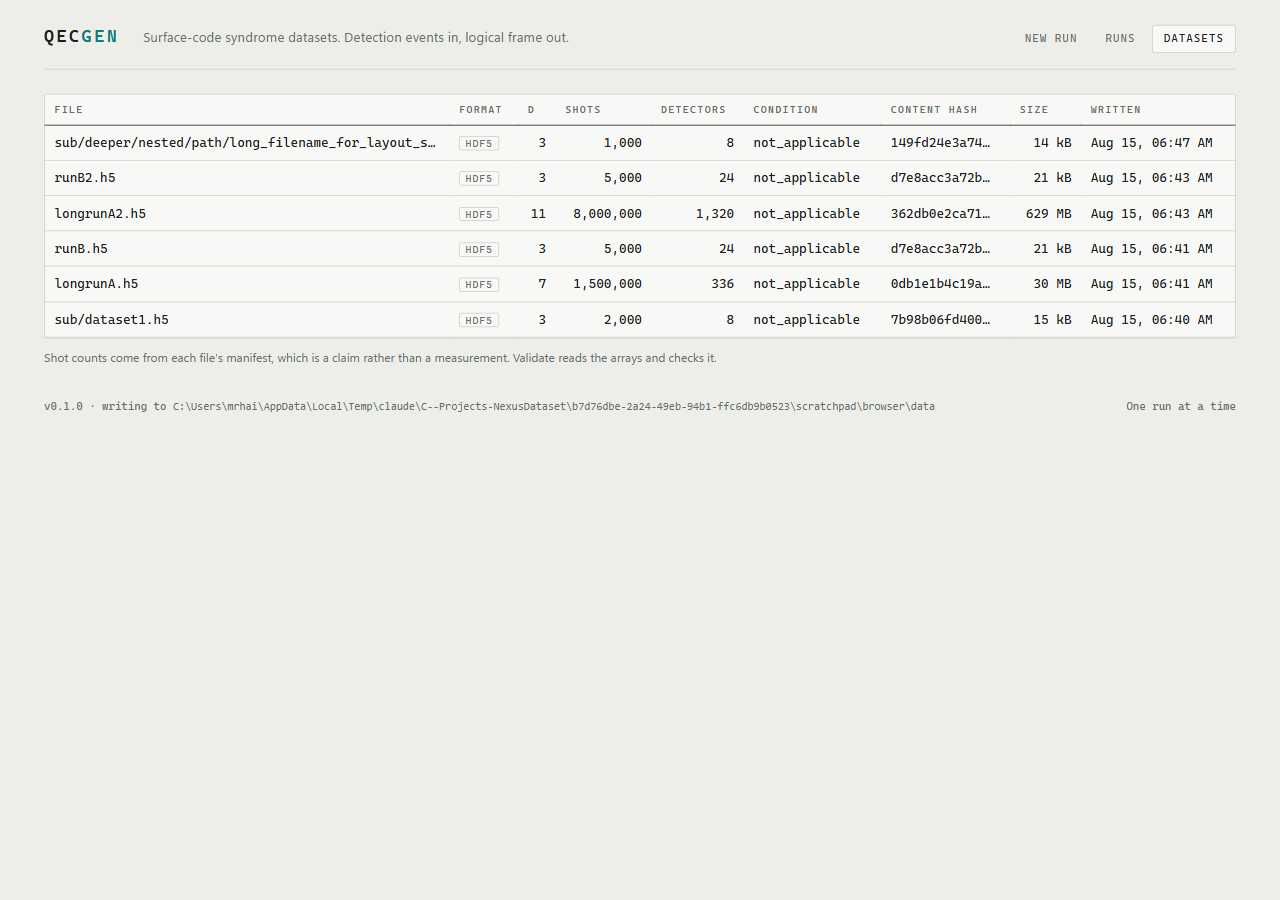
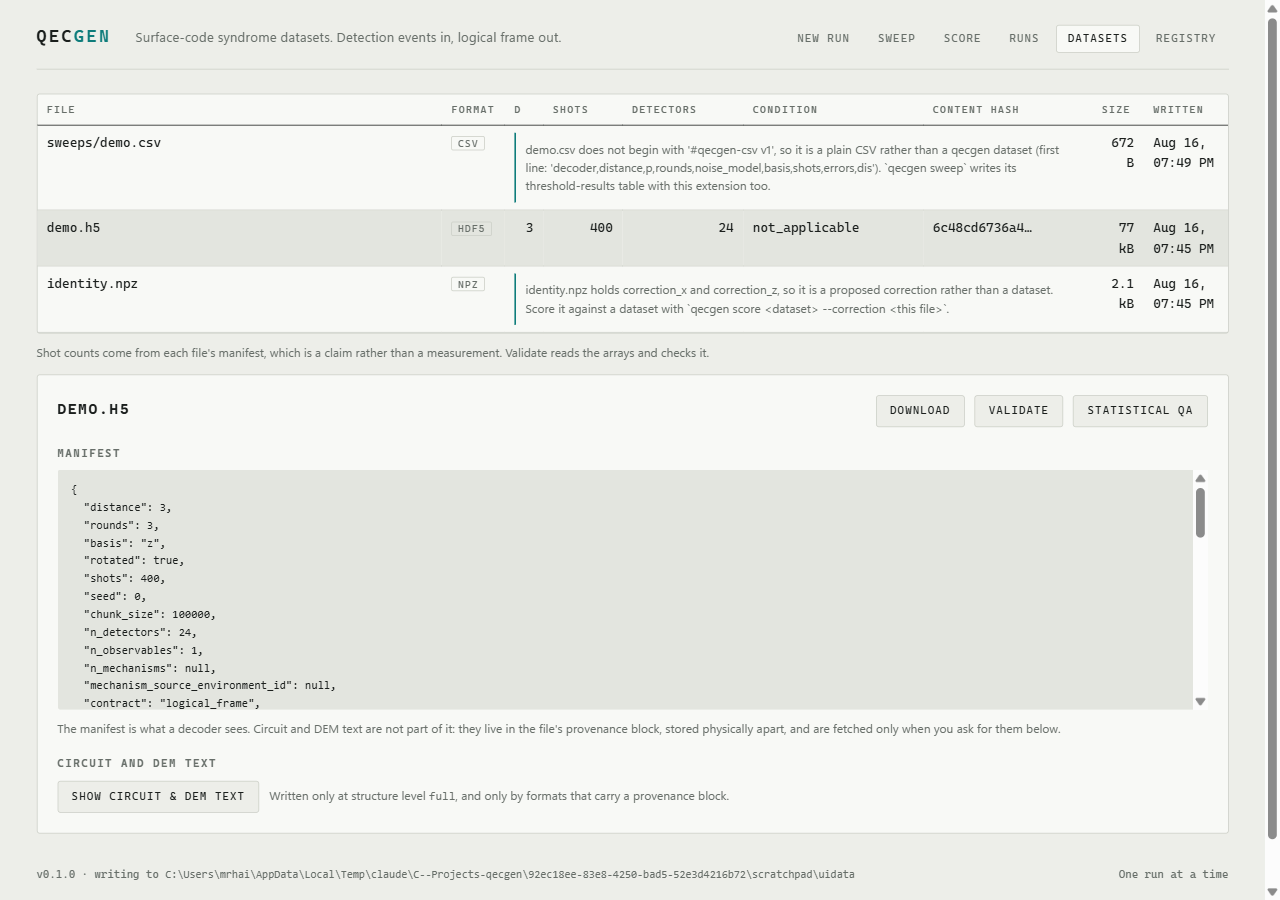
Sweep the docs, and re-capture the figures the nav changed
README, GUIDE, DATA_CONTRACT, CLAUDE.md and AGENTS.md all stated the UI's old
scope in their own words, so all five said it and all five had to stop. The
"sweep, score and inspect stay terminal-only" bullet in Out of scope is gone;
what replaces it is the one thing that genuinely is out of scope, which is
uploading files through the browser, with the reason (no authentication, so the
server reads what is already there rather than accepting arbitrary bytes).

DATA_CONTRACT gains the three rules that make a provenance endpoint safe, as
contract rather than presentation preference: never part of a manifest
response, never fetched incidentally, and warned about rather than refused --
because refusing in one front end while the other prints it is an
inconsistency about the same bytes, and what the split protects is a decoder's
input, not the file's secrecy.

GUIDE §14 gains five traps, all of them things that produce a well-formed wrong
result rather than an error: a file with a dataset extension that is not one
(now true of all five formats, not just .csv); --emit-mechanisms under
frozen_prior being refused on a topology digest rather than a count; a sweep's
--out naming the CSV so a .png there would have the plot overwrite the data;
and provenance being shown on request in both front ends.

CLAUDE.md and AGENTS.md get the new architecture line for run.py, the corrected
extension-point text now that both dispatch tables live beside EXPORTERS, and a
[…]

diff --git a/qecgen/ui/__init__.py b/qecgen/ui/__init__.py
@@ -1,8 +1,8 @@
-"""Local web UI for the dataset-producing commands.
+"""Local web UI. Everything the CLI does, in a browser.
 
 Import cost is deliberate here. ``qecgen.ui.protocol`` and ``qecgen.ui.worker`` depend on
-nothing beyond the standard library and :mod:`qecgen.run`, so a generation worker starts
-in about half a second and runs on an install without the ``ui`` extra.
+nothing beyond the standard library and :mod:`qecgen.run`, so a worker starts in about
+half a second and runs on an install without the ``ui`` extra.
 ``qecgen.ui.app`` is the only module that pulls in FastAPI, and nothing imports it at
 package level.
 """

diff --git a/tests/test_cli.py b/tests/test_cli.py
@@ -346,9 +346,7 @@ class TestReverseParity:
         assert dataset.mechanisms is not None
         assert dataset.meta.contract == "dem_mechanism"
 
-    def test_drift_refuses_mechanisms_when_the_frozen_dems_disagree(
-        self, tmp_path: Path
-    ) -> None:
+    def test_drift_refuses_mechanisms_when_the_frozen_dems_disagree(self, tmp_path: Path) -> None:
         """The domain guard, reachable from the CLI for the first time. Labels are indexed
         against the test DEM while the shipped structure describes the training one, so
         column k would denote different mechanisms in each."""

diff --git a/qecgen/cli.py b/qecgen/cli.py
@@ -605,7 +605,7 @@ def inspect(
 
 @app.command(
     help=(
-        "Serve the web UI for generate, multi-env and drift on localhost. "
+        "Serve the web UI on localhost: every command this tool has, in a browser. "
         "Loopback only, and not configurable: the API writes files and spawns "
         "processes for anyone who can reach it, with no authentication, so the only "
         "safe audience is the person at this machine. A non-loopback --host is "

diff --git a/GUIDE.md b/GUIDE.md
@@ -140,7 +140,7 @@ including values you didn't type. A terminal log is therefore a complete record 
 | `inspect` | Print a file's manifest without loading the shots |
 | `formats` | List the registered export formats |
 | `score` | Score a proposed physical correction by its logical effect |
-| `ui` | Serve `generate`/`multi-env`/`drift` as a local web page — see §13 |
+| `ui` | Serve every one of the above as a local web page — see §13 |
 
 ---
 
@@ -634,7 +634,7 @@ always PyMatching.
 
 ---
 
-## 13. `ui` — the same three commands in a browser
+## 13. `ui` — all of it in a browser
 
 ```bash
 pip install -e ".[ui]"
@@ -642,11 +642,27 @@ qecgen ui                      # http://127.0.0.1:8765; opens your browser once 
 qecgen ui --data-root runs     # confine reads and writes to a different directory
 ```
 
-`ui` serves a local web page for `generate`, `multi-env` and `drift` — the three
-dataset-producing commands — with a cost preview before you commit, a live progress bar,
-a run history that survives restarts, and a browser for the files under the data root.
-Every run goes through the same `run.py` layer the CLI uses, so a file made in the
-browser is exactly the file the terminal would have made, staged writes and all.
+`ui` serves a local web page for everything in the table above. Six pages: **New run**
+(`generate`, `multi-env`, `drift`) with a cost preview before you commit; **Sweep**, which
+renders the threshold plot and the Λ table; **Score**, which grades a proposed correction;
+**Runs**, with live progress, cancellation and per-kind results; **Datasets**, which
+browses manifests, validates, runs statistical QA and reveals provenance text on request;
+and **Registry**, which shows the formats and decoders this build actually has.
+
+Every job goes through the same `run.py` layer the CLI uses, so a file made in the browser
+is exactly the file the terminal would have made — staged writes and all — and a sweep run
+from either produces identical CSV rows.
+
+Two things the browser can do that the terminal cannot, both for the same reason (it can
+afford to build a circuit and answer before you commit):
+
+- **The cost preview.** Detector, observable and mechanism counts, the packed row width,
+  the file size, and whether the run will stream — before a shot is sampled.
+- **The correction compatibility check.** A wrongly-shaped correction is rejected in
+  milliseconds against the dataset's own schema, rather than after the file has been
+  parsed. The Score page also detects packed-vs-unpacked from the array's dtype instead of
+  asking, because a wrong answer there is not an error — it reads bit 0 of each byte and
+  returns a plausible number for a correction nobody proposed.
 
 Three properties are deliberate and not configurable:
 
@@ -710,7 +726,27 @@ inspection looks fine.
 13. **`--structure full` means something slightly different per format.** HDF5, NPZ and CSV
     carry the circuit and DEM text. JSONL and Parquet will not, and record a lower level
     rather than claiming `full`. So a JSONL file you asked for at `full` reports `dem` —
-    that is the honest answer, not a bug.
+    that is the honest answer, not a bug. `qecgen formats` prints which is which.
+14. **A file with a dataset extension is not necessarily a dataset**, and this is now true
+    of all five formats rather than only `.csv`. A correction `.npz`, somebody else's
+    `.parquet`, a plain `.jsonl` of log lines — each is listed as *not a qecgen dataset*
+    rather than as corrupt, and each says so by name when you point a command at it. The
+    one case that stays *corrupt* is an HDF5 with qecgen array datasets but no manifest,
+    because that is an interrupted run rather than a foreign file.
+15. **`--emit-mechanisms` with `--condition frozen_prior` can be refused, and should be.**
+    The labels are indexed against the *test* DEM while the file ships the *training*
+    structure, so column k would denote different mechanisms in each. The refusal compares
+    a topology digest, not just a count: equal counts in a different enumeration order
+    would permute the meaning of every label column with nothing in the file to detect it.
+16. **A sweep's `--out` names the CSV, and a `.png` there is refused.** The plot and the
+    `.threshold.json` sidecar are written beside it by replacing the suffix, so a `.png`
+    would make the plot and the data the same path — and the plot is written second.
+17. **Provenance text is shown on request, in both front ends, and that is not a leak in
+    itself.** `inspect --show-text` and the browser's reveal control both print the circuit
+    and DEM text a `--structure full` file stored. Under `frozen_prior` that text describes
+    the file's *own* error model, which is exactly what the condition withholds from a
+    decoder. Reading it to audit what was generated is the point of keeping it; feeding it
+    to anything being evaluated on that file is the mistake it warns about.
 
 ---
 

diff --git a/README.md b/README.md
@@ -455,8 +455,8 @@ written at `--structure full`, and says plainly that no provenance is stored oth
 
 ### `qecgen ui`
 
-The three dataset-producing commands in a browser, for when you would rather not remember
-which flags interact.
+Everything this tool does, in a browser — for when you would rather not remember which
+flags interact.
 
 ```bash
 cd frontend && npm ci && npm run build   # once, and after any frontend change
@@ -467,12 +467,28 @@ qecgen ui --data-root data               # http://127.0.0.1:8765
   <img src="docs/images/ui-newrun.png" alt="The New Run page: the four pipeline stages explained, a run form with distance, rounds, noise model and sampling settings, a live lattice preview, and a cost estimate showing detectors, observables, mechanisms and file size before anything is sampled" width="880">
 </p>
 
-Three pages: a run form with a live cost preview, a run list with live progress and
-cancellation, and a dataset browser with manifests and validation. It covers `generate`,
-`multi-env` and `drift`; `sweep`, `score` and `inspect` stay terminal-only.
+Six pages. **New run** builds a `generate`, `multi-env` or `drift` spec with a live cost
+preview. **Sweep** runs a threshold sweep and renders its plot and Λ table. **Score**
+grades a proposed correction. **Runs** shows live progress, cancellation and per-kind
+results. **Datasets** browses manifests, validates, runs statistical QA and reveals
+provenance text on request. **Registry** shows which formats and decoders this build
+actually has.
+
+Nothing is terminal-only any more. Two things go the other way and are worth knowing about
+because the terminal cannot do them: the **cost preview**, which builds the circuit and DEM
+without sampling a shot, and the **compatibility check** on the Score page, which rejects a
+wrongly-shaped correction in milliseconds rather than after minutes of parsing.
 
 <p align="center">
-  <img src="docs/images/ui-datasets.png" alt="The Datasets page: every file under the data root listed with its format, size and manifest summary, and a detail panel showing the selected file's full manifest with a validate button and download link" width="880">
+  <img src="docs/images/ui-datasets.png" alt="The Datasets page: three files under the data root — a sweep results table and a correction NPZ, each named as not a qecgen dataset rather than flagged as corrupt, and one real HDF5 dataset — with a detail panel showing its manifest, a validate button, a statistical QA button and a control to reveal circuit and DEM text" width="880">
+</p>
+
+Every file that carries a dataset extension but is not one says so by name rather than
+wearing a corruption flag — above, a `qecgen sweep` results table and a `qecgen score`
+correction file, listed beside the one real dataset.
+
+<p align="center">
+  <img src="docs/images/ui-sweep.png" alt="A finished sweep in the browser: the threshold plot with Clopper-Pearson error bars on every point, and beneath it the suppression table giving Lambda with its interval per error rate, the distances that entered each fit, and the reported-not-asserted disclaimer" width="880">
 </p>
 
 Three things about it are deliberate rather than incidental.
@@ -752,6 +768,13 @@ environment supplied the structure without reading any text.
 The parameters in the manifest remain sufficient to regenerate every environment, so
 dropping the text costs no reproducibility.
 
+`qecgen inspect --show-text` prints that block on request, and the web UI has the same
+control behind its own endpoint — never folded into the manifest response, never fetched
+alongside it, and warned about by naming the file's own `drift_condition`. Both **warn
+rather than refuse**: the bytes are in the file either way, and refusing in one front end
+while allowing it in the other would be an inconsistency about the same file. What the
+separation protects is a decoder's input, not the file's secrecy.
+
 ### Drift axes
 
 `--drift-axis` is not limited to `p`, because sweeping the uniform rate alone mostly tests
@@ -1025,8 +1048,10 @@ Not built, and not stubbed in a way that implies they exist:
 - **A multi-user or network-reachable web UI.** `qecgen ui` binds loopback and refuses
   anything else. There is no authentication, no per-user isolation and no disk quota,
   because it is a local tool for the person at the keyboard.
-- **`sweep`, `score` and `inspect` in the browser.** The UI covers the three commands that
-  produce datasets. The rest stay terminal-only.
+- **Uploading files through the browser.** `qecgen score` reads a correction from an
+  `.npz` you place under `--data-root` yourself. There is no upload endpoint: the server
+  has no authentication, and a path that accepts arbitrary bytes is a different security
+  posture from one that only reads what is already there.
 
 ---
 

diff --git a/AGENTS.md b/AGENTS.md
@@ -60,7 +60,8 @@ terminal log is a complete record of the run. `data/`, `out/`, `runs/` and all d
 extensions are gitignored. `*.csv` is among them, negated by `!docs/evidence/*.csv` for
 the committed sweep evidence a README figure is built from.
 
-`qecgen ui` serves the web UI for the three dataset-producing commands on loopback. The
+`qecgen ui` serves the web UI for **every** command on loopback: generation, sweeps,
+scoring, QA, provenance and the registry. The
 frontend is built on demand — the command names the build line rather than serving a
 blank page.
 
@@ -86,8 +87,11 @@ environments.py orchestration: build_single/multi/drift, stream_single_environme
 exporters/     Exporter protocol + registry (hdf5, npz, parquet, jsonl, csv),
                infer_format; structure_json.py holds the normative structure encoding
                shared byte-for-byte by jsonl and csv
-run.py         one run end to end: specs, format routing, staged writes, WrittenFile.
-               The layer both front ends call; imports neither typer nor pydantic
+run.py         one job end to end. RunSpec produces a dataset; AnalysisSpec (sweep,
+               score, qa) reads what exists and reports. `run` and `analyse` dispatch,
+               `job_total` says what a progress bar counts, `resolved_config` is the
+               record both front ends print. Imports neither typer nor pydantic, and
+               imports qecgen.sweep only inside the sweep branch
 validate.py    fast deterministic structural checks (default)
 qa.py          slow statistical checks with Clopper-Pearson intervals (opt-in)
 sweep.py       sinter threshold sweeps -> CSV + plot (independent of the dataset path)
@@ -283,15 +287,24 @@ well-formed file containing wrong data, which passes casual inspection.
   `meta.structure_level` (`require_level_agreement`); a format that cannot round-trip
   structure, or that declines to carry provenance at `full`, must *downgrade* the recorded
   level rather than over-claim — `recorded_structure_level` applies both rules so they
-  cannot drift apart. Two front-end dispatches are **not** registry-derived and need one
-  entry each: `ui/datasets._MANIFEST_READERS` (the cheap listing path — omitting it lists
-  every file of the format as `unreadable`) and `cli._PROVENANCE_READERS` (only if the
-  format carries provenance; the "no provenance stored" message is built from its keys).
-  Both are covered by tests that fail if you forget, and `cli._read_manifest_only` should
-  gain a branch if the format can produce a manifest without reading its shots. If the new
-  extension can also name a file qecgen writes for another purpose — as `.csv` does, for
-  `qecgen sweep` — the reader must raise `NotAQecgenDatasetError`, which is the distinction
-  `list_datasets` uses to say "not ours" rather than "broken".
+  cannot drift apart. Two dispatch tables live in `exporters/__init__.py`, three lines from
+  `EXPORTERS`: `_MANIFEST_READERS` (every format needs one — omitting it lists every file
+  of the format as `unreadable`) and `_PROVENANCE_READERS` (only if the format carries
+  provenance; the "no provenance stored" message is built from `carries_provenance`, not
+  from those keys). They were previously private to a front end each, in different states
+  of completeness, which is exactly why neither front end could use the other's. A new
+  format must also raise `NotAQecgenDatasetError` for a file it did not write — that is
+  the distinction `list_datasets` uses to say "not ours" rather than "broken" — and the
+  signal must be **provable** rather than heuristic. The enumerated cases are on that
+  exception's docstring; HDF5 is the subtle one, needing both no manifest *and* no
+  `detectors` dataset, because `StreamingHDF5Writer.abort()` leaves the arrays behind.
+- **New analysis job kind:** one dataclass in `run.py`, one branch in each of `analyse`,
+  `job_total`, `preload` and `resolved_config` — all exhaustive `match` statements, so
+  mypy names the ones you missed — plus `protocol.spec_to_json`/`spec_from_json`, a
+  pydantic model in `ui/schemas.py`, and an entry in `TestSpecRoundTrip._example`. That
+  last one is not optional: `spec_from_json` is an if-chain mypy cannot check, and the
+  `get_args(JobSpec)` round trip is what covers it. `preload` is the one that fails
+  silently if forgotten — see the stdin invariants above.
 - **New drift axis:** one builder function plus one entry in `AXIS_BUILDERS`, plus its
   domain check in `_validate_axis_value` and its unbiased point in `unbiased_point` (both
   fail closed on an unknown axis; the registry test probes all three points).

diff --git a/CLAUDE.md b/CLAUDE.md
@@ -60,7 +60,8 @@ terminal log is a complete record of the run. `data/`, `out/`, `runs/` and all d
 extensions are gitignored. `*.csv` is among them, negated by `!docs/evidence/*.csv` for
 the committed sweep evidence a README figure is built from.
 
-`qecgen ui` serves the web UI for the three dataset-producing commands on loopback. The
+`qecgen ui` serves the web UI for **every** command on loopback: generation, sweeps,
+scoring, QA, provenance and the registry. The
 frontend is built on demand — the command names the build line rather than serving a
 blank page.
 
@@ -86,8 +87,11 @@ environments.py orchestration: build_single/multi/drift, stream_single_environme
 exporters/     Exporter protocol + registry (hdf5, npz, parquet, jsonl, csv),
                infer_format; structure_json.py holds the normative structure encoding
                shared byte-for-byte by jsonl and csv
-run.py         one run end to end: specs, format routing, staged writes, WrittenFile.
-               The layer both front ends call; imports neither typer nor pydantic
+run.py         one job end to end. RunSpec produces a dataset; AnalysisSpec (sweep,
+               score, qa) reads what exists and reports. `run` and `analyse` dispatch,
+               `job_total` says what a progress bar counts, `resolved_config` is the
+               record both front ends print. Imports neither typer nor pydantic, and
+               imports qecgen.sweep only inside the sweep branch
 validate.py    fast deterministic structural checks (default)
 qa.py          slow statistical checks with Clopper-Pearson intervals (opt-in)
 sweep.py       sinter threshold sweeps -> CSV + plot (independent of the dataset path)
@@ -283,15 +287,24 @@ well-formed file containing wrong data, which passes casual inspection.
   `meta.structure_level` (`require_level_agreement`); a format that cannot round-trip
   structure, or that declines to carry provenance at `full`, must *downgrade* the recorded
   level rather than over-claim — `recorded_structure_level` applies both rules so they
-  cannot drift apart. Two front-end dispatches are **not** registry-derived and need one
-  entry each: `ui/datasets._MANIFEST_READERS` (the cheap listing path — omitting it lists
-  every file of the format as `unreadable`) and `cli._PROVENANCE_READERS` (only if the
-  format carries provenance; the "no provenance stored" message is built from its keys).
-  Both are covered by tests that fail if you forget, and `cli._read_manifest_only` should
-  gain a branch if the format can produce a manifest without reading its shots. If the new
-  extension can also name a file qecgen writes for another purpose — as `.csv` does, for
-  `qecgen sweep` — the reader must raise `NotAQecgenDatasetError`, which is the distinction
-  `list_datasets` uses to say "not ours" rather than "broken".
+  cannot drift apart. Two dispatch tables live in `exporters/__init__.py`, three lines from
+  `EXPORTERS`: `_MANIFEST_READERS` (every format needs one — omitting it lists every file
+  of the format as `unreadable`) and `_PROVENANCE_READERS` (only if the format carries
+  provenance; the "no provenance stored" message is built from `carries_provenance`, not
+  from those keys). They were previously private to a front end each, in different states
+  of completeness, which is exactly why neither front end could use the other's. A new
+  format must also raise `NotAQecgenDatasetError` for a file it did not write — that is
+  the distinction `list_datasets` uses to say "not ours" rather than "broken" — and the
+  signal must be **provable** rather than heuristic. The enumerated cases are on that
+  exception's docstring; HDF5 is the subtle one, needing both no manifest *and* no
+  `detectors` dataset, because `StreamingHDF5Writer.abort()` leaves the arrays behind.
+- **New analysis job kind:** one dataclass in `run.py`, one branch in each of `analyse`,
+  `job_total`, `preload` and `resolved_config` — all exhaustive `match` statements, so
+  mypy names the ones you missed — plus `protocol.spec_to_json`/`spec_from_json`, a
+  pydantic model in `ui/schemas.py`, and an entry in `TestSpecRoundTrip._example`. That
+  last one is not optional: `spec_from_json` is an if-chain mypy cannot check, and the
+  `get_args(JobSpec)` round trip is what covers it. `preload` is the one that fails
+  silently if forgotten — see the stdin invariants above.
 - **New drift axis:** one builder function plus one entry in `AXIS_BUILDERS`, plus its
   domain check in `_validate_axis_value` and its unbiased point in `unbiased_point` (both
   fail closed on an unknown axis; the registry test probes all three points).

diff --git a/DATA_CONTRACT.md b/DATA_CONTRACT.md
@@ -418,6 +418,21 @@ and reserve full-level CSV for audit.
 It is retained so a reviewer can audit what was generated, and separated physically so
 that reading the manifest cannot expose it.
 
+**Both front ends will show it to a person who asks, and neither will hand it over
+incidentally.** `qecgen inspect --show-text` prints it; the web UI has a separate endpoint
+and an explicit control for it. Three rules make that safe, and they are part of this
+contract rather than presentation choices:
+
+1. It is **never** part of a manifest response. `DatasetMeta.to_json_dict()` excludes the
+   text by construction and the manifest endpoint returns exactly that object.
+2. It is **never fetched incidentally** — not alongside the manifest, not on selecting a
+   file. A UI that had it loaded because a row was clicked has already defeated the split,
+   whatever it chooses to render.
+3. It is **warned about, not refused**, and the warning names the file's own
+   `drift_condition`. Refusing in one front end while allowing it in the other would be an
+   inconsistency about the same bytes; what is protected here is a decoder's *input*, not
+   the file's secrecy.
+
 Dropping the text from the manifest costs no reproducibility: distance, rounds, basis,
 rotated, the full channel vector, axis, axis value, seed and chunk size are all recorded,
 and together they regenerate each environment exactly.
